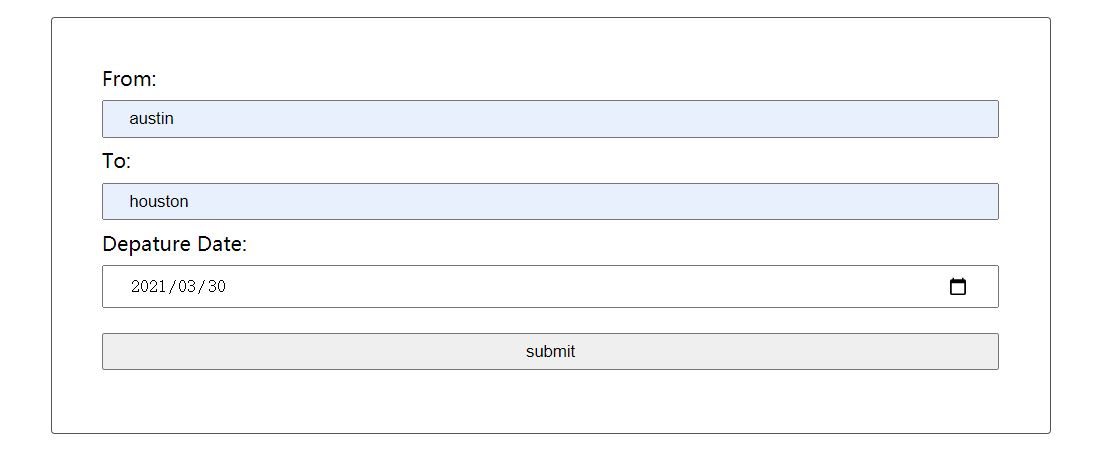
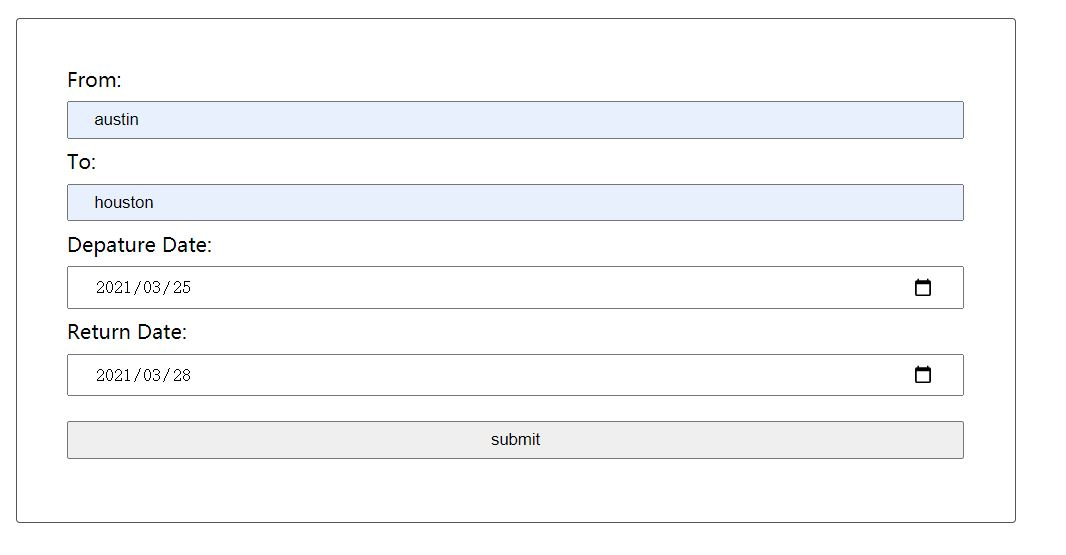
Add files via upload

diff --git a/README.md b/README.md
@@ -5,8 +5,21 @@ npm run build-prod
 npm start   
 3, open browser:   
 http://localhost:8080/   
-4, type in a valid url, then submit it.    
+4, type in start city name, destination city, start date & return date, then submit the form.   
 5, do test with:   
 npm run test
 
+# The extention
+Add end date and display length of trip.
+
+# Implementation
+after user input start date, end date, start city and end city, then submit the from, this APP will do:
+1, call Geonames API to get the destination city latitude and longtitude.
+2, use this longtitude and latitude to call Weatherbit API to get the weather of City. 
+3, use the city name to call Pixabay API to get the image of this city.
+4, put all the trip info into server storage by calling "post" routing. 
+5, retrieve the info from server by calling "get" route, and update UI dynamically.
+This project combines all the knowledge learn from previous project.
+Use only vanilla javascript, Project is built up with node.js+npm+express+webpack+service workers. 
+ 
 
